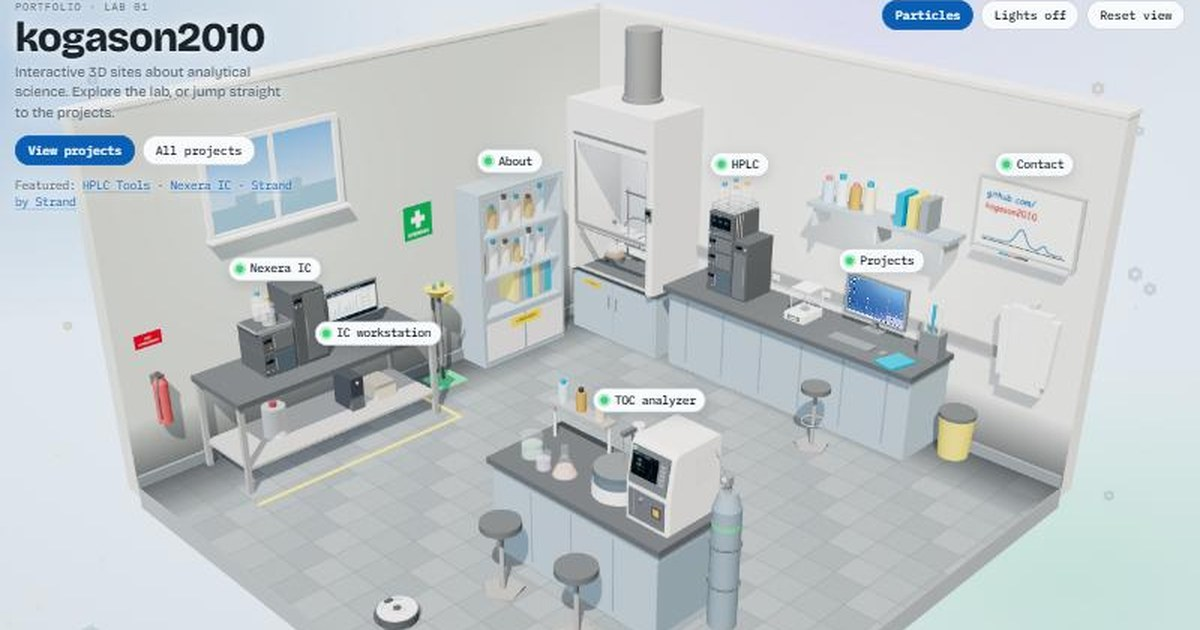
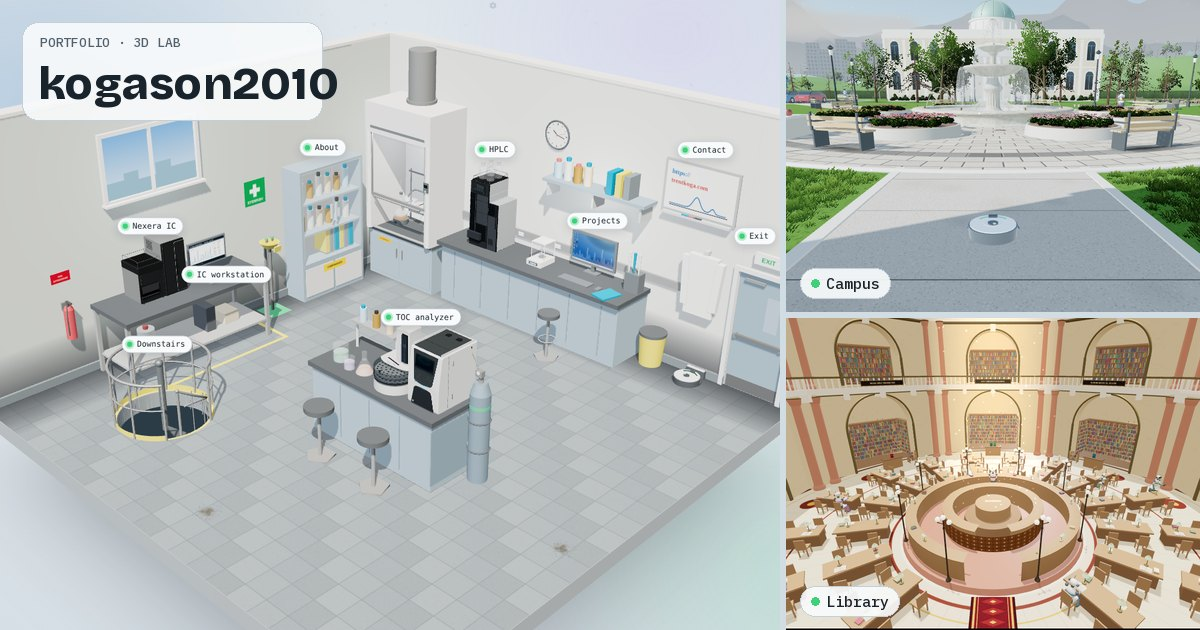
Clear the view, fit phones, fix small bugs, fresh share preview
- The intro panel folds away when you head for another room, so it no longer covers a third of NCA or the math hall
- The math hall opens on a wider view that takes in the exhibits on both sides
- Phones: toolbar buttons show icons so they all fit on screen; crowded tags shrink to their dots instead of stacking into a wall
- Escape with the Places menu open on the campus no longer throws you out of the campus
- A card with a Reload button if the device takes the 3D view away, instead of a blank page
- A page-not-found page
- New share image (lab, campus, library) and share text

Claude-Session: https://claude.ai/code/session_01VFjtFn7Ejbbtki6nFDakVH

diff --git a/index.html b/index.html
@@ -3,14 +3,17 @@
 <head>
 <meta charset="utf-8">
 <meta name="viewport" content="width=device-width, initial-scale=1, viewport-fit=cover">
-<meta name="description" content="Portfolio of kogason2010: a 3D analytical chemistry lab, with KogasonOS running on its monitor.">
+<meta name="description" content="Portfolio of kogason2010: a 3D analytical chemistry lab and its campus, with KogasonOS running on the lab's monitor and app notes in the library.">
 <link rel="icon" href="favicon.svg" type="image/svg+xml">
 <link rel="canonical" href="https://kogason2010.github.io/">
 <meta property="og:type" content="website">
 <meta property="og:title" content="kogason2010 · 3D lab">
-<meta property="og:description" content="A 3D analytical chemistry lab with KogasonOS on its monitor: interactive 3D websites about analytical science.">
+<meta property="og:description" content="Explore a 3D analytical chemistry lab, drive its robot around the campus, and browse app notes in the library. KogasonOS runs on the lab's monitor.">
 <meta property="og:url" content="https://kogason2010.github.io/">
 <meta property="og:image" content="https://kogason2010.github.io/og-lab.jpg">
+<meta property="og:image:width" content="1200">
+<meta property="og:image:height" content="630">
+<meta property="og:image:alt" content="The 3D lab, with views of the campus and the library">
 <meta name="twitter:card" content="summary_large_image">
 <meta name="theme-color" content="#0f181e">
 <style>
@@ -50,12 +53,12 @@
 
 <div class="tools">
   <button class="btn places-btn" id="placesBtn" type="button" aria-haspopup="menu" aria-expanded="false" aria-controls="placesMenu"><svg viewBox="0 0 16 16" aria-hidden="true"><path d="M8 1.5c-2.5 0-4.5 2-4.5 4.4 0 3.3 4.5 8.6 4.5 8.6s4.5-5.3 4.5-8.6C12.5 3.5 10.5 1.5 8 1.5z" fill="none" stroke="currentColor" stroke-width="1.5"/><circle cx="8" cy="6" r="1.7" fill="currentColor"/></svg>Places</button>
-  <a class="btn places-btn" id="projectsBtn" href="https://kogason2010.github.io/projects/" target="_blank" rel="noopener" data-same><svg viewBox="0 0 16 16" aria-hidden="true"><rect x="2" y="2" width="5" height="5" rx="1.2" fill="currentColor"/><rect x="9" y="2" width="5" height="5" rx="1.2" fill="currentColor"/><rect x="2" y="9" width="5" height="5" rx="1.2" fill="currentColor"/><rect x="9" y="9" width="5" height="5" rx="1.2" fill="currentColor"/></svg>Projects</a>
-  <button class="btn primary" id="particleBtn" type="button" aria-pressed="false">Particles</button>
-  <button class="btn" id="levelBtn" type="button" aria-label="Go downstairs to the SFC suite">Go downstairs</button>
-  <button class="btn" id="lightsBtn" type="button" aria-pressed="false">Lights off</button>
+  <a class="btn places-btn compact" id="projectsBtn" href="https://kogason2010.github.io/projects/" target="_blank" rel="noopener" data-same><svg viewBox="0 0 16 16" aria-hidden="true"><rect x="2" y="2" width="5" height="5" rx="1.2" fill="currentColor"/><rect x="9" y="2" width="5" height="5" rx="1.2" fill="currentColor"/><rect x="2" y="9" width="5" height="5" rx="1.2" fill="currentColor"/><rect x="9" y="9" width="5" height="5" rx="1.2" fill="currentColor"/></svg><span class="lbl">Projects</span></a>
+  <button class="btn primary compact" id="particleBtn" type="button" aria-pressed="false"><svg class="ico" viewBox="0 0 16 16" aria-hidden="true"><circle cx="4" cy="4.5" r="1.6" fill="currentColor"/><circle cx="11.5" cy="3.5" r="1.2" fill="currentColor"/><circle cx="8" cy="8.5" r="1.9" fill="currentColor"/><circle cx="3.5" cy="12" r="1.1" fill="currentColor"/><circle cx="12.5" cy="11.5" r="1.5" fill="currentColor"/></svg><span class="lbl">Particles</span></button>
+  <button class="btn compact" id="levelBtn" type="button" aria-label="Go downstairs to the SFC suite"><svg class="ico" viewBox="0 0 16 16" aria-hidden="true"><path d="M1.5 14.5h4v-3.5h4V7.5h5" fill="none" stroke="currentColor" stroke-width="1.6" stroke-linejoin="round"/><path d="M3.5 2v6M1.5 6l2 2 2-2" fill="none" stroke="currentColor" stroke-width="1.5" stroke-linecap="round" stroke-linejoin="round"/></svg><span class="lbl">Go downstairs</span></button>
+  <button class="btn compact" id="lightsBtn" type="button" aria-pressed="false"><svg class="ico" viewBox="0 0 16 16" aria-hidden="true"><path d="M8 1.8a4.4 4.4 0 00-2.6 7.9c.5.4.8 1 .8 1.6h3.6c0-.6.3-1.2.8-1.6A4.4 4.4 0 008 1.8z" fill="none" stroke="currentColor" stroke-width="1.5" stroke-linejoin="round"/><path d="M6.2 13.2h3.6M6.8 15h2.4" stroke="currentColor" stroke-width="1.5" stroke-linecap="round"/></svg><span class="lbl">Lights off</span></button>
   <button class="btn sound-btn" id="soundBtn" type="button" aria-pressed="false" aria-label="Turn sound on" title="Sound"><svg viewBox="0 0 16 16" aria-hidden="true"><path d="M2.5 6h2.2L8 3.2v9.6L4.7 10H2.5z" fill="currentColor"/><path class="wave" d="M10.5 5.5a3.2 3.2 0 010 5M12.3 3.8a5.6 5.6 0 010 8.4" fill="none" stroke="currentColor" stroke-width="1.4" stroke-linecap="round"/><path class="mute" d="M10.5 6l4 4M14.5 6l-4 4" fill="none" stroke="currentColor" stroke-width="1.4" stroke-linecap="round"/></svg></button>
-  <button class="btn" id="resetBtn" type="button">Reset view</button>
+  <button class="btn compact" id="resetBtn" type="button"><svg class="ico" viewBox="0 0 16 16" aria-hidden="true"><path d="M3 8a5 5 0 109-3" fill="none" stroke="currentColor" stroke-width="1.6" stroke-linecap="round"/><path d="M12.6 1.8V5.4H9" fill="none" stroke="currentColor" stroke-width="1.6" stroke-linecap="round" stroke-linejoin="round"/></svg><span class="lbl">Reset view</span></button>
 </div>
 
 <div class="places-menu" id="placesMenu" role="menu" aria-label="Places" hidden></div>

diff --git a/404.html b/404.html
@@ -1,0 +1,67 @@
+<!doctype html>
+<html lang="en">
+<head>
+<meta charset="utf-8">
+<meta name="viewport" content="width=device-width, initial-scale=1">
+<meta name="robots" content="noindex">
+<title>Page not found · kogason2010</title>
+<link rel="icon" href="/favicon.svg" type="image/svg+xml">
+<link rel="preconnect" href="https://fonts.googleapis.com">
+<link rel="stylesheet" href="https://fonts.googleapis.com/css2?family=Bricolage+Grotesque:opsz,wght@12..96,400;12..96,800&family=IBM+Plex+Mono:wght@400;500&display=swap">
+<!-- Shown by GitHub Pages for any address on this site that doesn't exist. Same colours as the lab (css/style.css). -->
+<style>
+  :root {
+    --bg: #e9eef2; --bg-2: #d2dce3; --ink: #18232b; --ink-soft: #51616c; --sheet: #f8fafb; --line: #c4d0d8;
+    --accent: #0a5fb4; --accent-ink: #ffffff; --glow: #3fd17a;
+    --display: "Bricolage Grotesque", "Segoe UI", system-ui, sans-serif;
+    --mono: "IBM Plex Mono", ui-monospace, "SFMono-Regular", Menlo, monospace;
+  }
+  @media (prefers-color-scheme: dark) {
+    :root:not([data-theme="light"]) { --bg: #0f181e; --bg-2: #18242c; --ink: #e3ecf1; --ink-soft: #97a9b4; --sheet: #152028; --line: #283943; --accent: #6aa6f0; --accent-ink: #091a30; --glow: #5fe39a; color-scheme: dark; }
+  }
+  :root[data-theme="dark"] { --bg: #0f181e; --bg-2: #18242c; --ink: #e3ecf1; --ink-soft: #97a9b4; --sheet: #152028; --line: #283943; --accent: #6aa6f0; --accent-ink: #091a30; --glow: #5fe39a; color-scheme: dark; }
+  * { box-sizing: border-box; }
+  html, body { min-height: 100%; }
+  body { margin: 0; display: grid; place-items: center; min-height: 100vh; padding: 32px 16px;
+    background: radial-gradient(120% 90% at 50% 40%, var(--bg) 0%, var(--bg-2) 100%); background-color: var(--bg);
+    color: var(--ink); font: 16px/1.5 var(--display); }
+  main { width: min(520px, 100%); background: var(--sheet); border: 1px solid var(--line); border-radius: 18px; padding: 24px 24px 26px; box-shadow: 0 18px 50px rgba(0,0,0,.10); }
+  .eyebrow { font: 500 11px/1 var(--mono); letter-spacing: .12em; text-transform: uppercase; color: var(--ink-soft); }
+  h1 { margin: 10px 0 6px; font-weight: 800; font-size: clamp(30px, 7vw, 42px); line-height: 1; letter-spacing: -.02em; }
+  p { margin: 0; color: var(--ink-soft); }
+  svg { display: block; width: 100%; height: auto; margin: 18px 0 16px; }
+  .axis { stroke: var(--line); }
+  .trace { stroke: var(--accent); }
+  .mark { stroke: var(--ink-soft); }
+  .tick { fill: var(--ink-soft); font: 400 10px var(--mono); }
+  .where { fill: var(--ink-soft); font: 500 11px var(--mono); }
+  @media (max-width: 480px) { .tick { font-size: 16px; } .where { font-size: 17px; } }   /* the chart shrinks to fit: keep its words readable */
+  nav { display: flex; flex-wrap: wrap; gap: 8px; margin-top: 20px; }
+  a.btn { font: 500 13px/1 var(--mono); letter-spacing: .03em; text-decoration: none; color: var(--ink); background: var(--sheet);
+    border: 1px solid var(--line); border-radius: 999px; padding: 10px 14px; }
+  a.btn:hover { border-color: var(--accent); }
+  a.btn.primary { background: var(--accent); color: var(--accent-ink); border-color: var(--accent); }
+  a.btn:focus-visible { outline: 2px solid var(--accent); outline-offset: 2px; }
+</style>
+</head>
+<body>
+<main>
+  <span class="eyebrow">Error 404 · kogason2010</span>
+  <h1>No peak here</h1>
+  <p>This page didn't come off the column. The address may be mistyped, or the page has moved.</p>
+  <svg viewBox="0 0 460 120" role="img" aria-label="A chromatogram with a flat baseline: nothing was detected">
+    <path class="axis" d="M20 96H448M20 96V12" fill="none" stroke-width="1.5"/>
+    <path class="trace" d="M20 92c40 0 70 1 110 0s80-1 120 0 70 1 110 0 60-1 88 0" fill="none" stroke-width="2.2" stroke-linecap="round"/>
+    <path class="mark" d="M264 24v66" stroke-dasharray="3 4" stroke-width="1.2"/>
+    <text class="where" x="270" y="32">expected here</text>
+    <text class="tick" x="20" y="112">0</text><text class="tick" x="128" y="112">2</text><text class="tick" x="236" y="112">4</text><text class="tick" x="344" y="112">6</text><text class="tick" x="420" y="112">min</text>
+  </svg>
+  <p>Try one of these instead:</p>
+  <nav>
+    <a class="btn primary" href="/">Back to the lab</a>
+    <a class="btn" href="/projects/">Browse all projects</a>
+    <a class="btn" href="/os/">Open KogasonOS</a>
+  </nav>
+</main>
+</body>
+</html>

diff --git a/css/style.css b/css/style.css
@@ -233,6 +233,11 @@ body.world-mode .hint { bottom: calc(16px + env(safe-area-inset-bottom, 0px)); }
 .hot[hidden] { display: none; }
 .hot { transition: border-color .15s, opacity .2s; }
 .hot.tucked { opacity: 0; pointer-events: none; }
+/* a tag crowded out by a nearer one shrinks to its dot (js/main.js); hovering or focusing it shows the name again */
+.hot.dot { gap: 0; padding: 5px; }
+.hot.dot .lbl { position: absolute; width: 1px; height: 1px; overflow: hidden; clip-path: inset(50%); white-space: nowrap; }
+.hot.dot:hover, .hot.dot:focus-visible, .hot.dot.on { gap: 7px; padding: 6px 10px 6px 7px; z-index: 1; }
+.hot.dot:hover .lbl, .hot.dot:focus-visible .lbl, .hot.dot.on .lbl { position: static; width: auto; height: auto; clip-path: none; }
 
 .sheet {
   position: fixed; z-index: 3;
@@ -410,6 +415,15 @@ body.world-mode .hint { bottom: calc(16px + env(safe-area-inset-bottom, 0px)); }
   .tools { left: max(12px, env(safe-area-inset-left, 0px)); right: max(12px, env(safe-area-inset-right, 0px)); max-width: none; justify-content: flex-start; flex-wrap: nowrap; overflow-x: auto; scrollbar-width: none; }
   .tools::-webkit-scrollbar { display: none; }
   .tools .btn { flex: none; padding: 8px 11px; }
+  /* phones: the toolbar's buttons show just their icons so they all fit across the screen (their names stay for screen
+     readers, and Particles says "Back to lab" in words while it's on) */
+  .tools { gap: 6px; }
+  .tools .btn .ico { display: block; width: 14px; height: 14px; flex: none; }
+  .tools .compact { display: inline-flex; align-items: center; justify-content: center; gap: 6px; box-sizing: border-box; min-width: 36px; padding: 8px 10px; }
+  .tools .compact .lbl { position: absolute; width: 1px; height: 1px; overflow: hidden; clip-path: inset(50%); white-space: nowrap; }
+  .tools #particleBtn[aria-pressed="true"] .lbl { position: static; width: auto; height: auto; clip-path: none; }
+  .tools #particleBtn[aria-pressed="true"] ~ #levelBtn, .tools #particleBtn[aria-pressed="true"] ~ #lightsBtn { display: none; }   /* (no use to a cloud of points, and the words need their room) */
+  .tools #levelBtn.going-up .ico { transform: rotate(180deg); }
   .tag { top: calc(60px + env(safe-area-inset-top, 0px)); }
 }
 body.sheet-open .tag { opacity: 0; pointer-events: none; transform: translateY(-8px); }
@@ -511,6 +525,7 @@ body.sheet-open .tag { opacity: 0; pointer-events: none; transform: translateY(-
 
 /* the Places menu: every room in one list */
 .tools .places-btn { display: inline-flex; align-items: center; gap: 6px; text-decoration: none; }
+.tools .ico { display: none; }   /* toolbar icons are for phones (below); wider screens have room for the words */
 .places-btn svg { width: 14px; height: 14px; }
 .places-menu { position: fixed; z-index: 6; top: calc(58px + env(safe-area-inset-top, 0px)); right: max(16px, env(safe-area-inset-right, 0px)); width: min(300px, calc(100vw - 32px));
   display: grid; gap: 2px; padding: 6px; border-radius: 14px; border: 1px solid var(--line); background: color-mix(in srgb, var(--sheet) 94%, transparent);
@@ -559,3 +574,11 @@ kbd { display: inline-block; min-width: 1.4em; padding: 1px 6px; border-radius: 
 .places-menu .pm-quality span { flex: 1; font: 500 11px/1 var(--mono); letter-spacing: .1em; text-transform: uppercase; color: var(--ink-soft); }
 .places-menu .pm-quality button { display: inline-block; padding: 6px 12px; border: 1px solid var(--line); border-radius: 999px; font: 500 12px/1 var(--mono); color: var(--ink); }
 .places-menu .pm-quality button[aria-pressed="true"] { background: var(--accent); border-color: var(--accent); color: var(--accent-ink); }
+
+/* the 3D view was taken away by the device (js/core/scene.js) */
+.gl-lost { position: fixed; left: 50%; top: 50%; transform: translate(-50%, -50%); z-index: 40; width: min(360px, calc(100% - 32px)); box-sizing: border-box;
+  display: grid; gap: 8px; justify-items: start; padding: 18px 20px; border-radius: 16px; background: var(--sheet); color: var(--ink); border: 1px solid var(--line); box-shadow: 0 18px 50px rgba(0,0,0,.18); }
+.gl-lost b { font: 800 22px/1.1 var(--display); letter-spacing: -.01em; }
+.gl-lost p { margin: 0; color: var(--ink-soft); }
+.gl-lost .btn { margin-top: 4px; }
+body.gl-off #labels, body.gl-off .hint { visibility: hidden; }

diff --git a/js/main.js b/js/main.js
@@ -76,6 +76,8 @@ resize(); fitDistance();
 
 /* ---------- Loop ---------- */
 const v = new THREE.Vector3();
+// tags that never shrink to a dot when the room is crowded: the workstations the hints tell you to tap, and the projects monitor
+const TAG_FIRST = new Set(["desktop", "icpc", "sfcpc", "lcpc"]);
 const clock = new THREE.Clock();
 let rotorAngle = 0, rotorTarget = 0, rotorTimer = 0;
 function frame() {
@@ -160,17 +162,36 @@ function frame() {
       // keep the whole tag on screen (narrow phones clipped the ones near the edges)
       if (!hs._w && !labelsEl.hidden) { const ow = hs.el.offsetWidth; if (ow) { hs._w = ow / 2; hs._h = hs.el.offsetHeight || 26; } }   // measured once, the first time it shows
       const hw = hs._w || 0;
-      placed.push({ hs, hw, hh: hs._h || 26, lx: Math.min(w - hw - 6, Math.max(hw + 6, (v.x * 0.5 + 0.5) * w)), ly: (-v.y * 0.5 + 0.5) * h });
+      const ax = (v.x * 0.5 + 0.5) * w;
+      placed.push({ hs, hw, hh: hs._h || 26, ax, lx: Math.min(w - hw - 6, Math.max(hw + 6, ax)), ly: (-v.y * 0.5 + 0.5) * h });
     });
-    // tags that would land on top of each other are nudged apart vertically, top to bottom
-    placed.sort((a, b) => a.ly - b.ly);
-    placed.forEach((p, i) => {
-      for (let pass = 0; pass < 4; pass++) {
-        const hit = placed.slice(0, i).find(q => Math.abs(q.lx - p.lx) < q.hw + p.hw + 4 && Math.abs(q.ly - p.ly) < (q.hh + p.hh) / 2 + 3);
-        if (!hit) break; p.ly = hit.ly + (hit.hh + p.hh) / 2 + 4;
+    // tags that would land on top of each other slide down out of the way, top to bottom; one that would have to slide
+    // far from its thing (a crowded bench) shrinks to its glowing dot right where the thing is instead. The name shows
+    // again on hover or focus, or once you zoom in and there's room (a dot needs a little more room to grow back, so tags
+    // don't flicker as the camera moves)
+    placed.sort((a, b) => (TAG_FIRST.has(b.hs.key) - TAG_FIRST.has(a.hs.key)) || a.ly - b.ly);   // the ones the hints point to always keep their names
+    const kept = [], clash = p => kept.find(q => Math.abs(q.lx - p.lx) < q.hw + p.hw + 4 && Math.abs(q.ly - p.ly) < (q.hh + p.hh) / 2 + 3);
+    placed.forEach(p => {
+      const y0 = p.ly, room = p.hs._dot ? 18 : 34;
+      let hit;
+      for (let pass = 0; pass < 3 && (hit = clash(p)); pass++) p.ly = hit.ly + (hit.hh + p.hh) / 2 + 4;
+      const dot = !!hit || p.ly - y0 > room;
+      if (dot !== !!p.hs._dot) { p.hs._dot = dot; p.hs.el.classList.toggle("dot", dot); }
+      let under = false;
+      if (dot) {
+        p.ly = y0; p.hw = 10; p.hh = 20; p.lx = Math.min(w - 16, Math.max(16, p.ax));
+        // a dot that lands on a name steps to the nearest free spot just beside it; with no room anywhere, it waits out of sight
+        const q = clash(p);
+        if (q) {
+          const x0 = p.lx, spots = [[x0, q.ly - q.hh / 2 - 12], [x0, q.ly + q.hh / 2 + 12], [q.lx - q.hw - 16, q.ly], [q.lx + q.hw + 16, q.ly]]
+            .filter(s => s[0] > 12 && s[0] < w - 12).sort((a, b) => Math.hypot(a[0] - x0, a[1] - y0) - Math.hypot(b[0] - x0, b[1] - y0));
+          const free = spots.find(s => { p.lx = s[0]; p.ly = s[1]; return !clash(p); });
+          if (!free) { p.lx = x0; p.ly = y0; under = true; }
+        }
       }
+      if (!under) kept.push(p);
       p.hs.el.style.transform = `translate(${p.lx}px, ${p.ly}px) translate(-50%, -50%)`;
-      p.hs.el.classList.toggle("tucked", cover.some(r => p.lx > r.left - 50 && p.lx < r.right + 50 && p.ly > r.top - 14 && p.ly < r.bottom + 14));
+      p.hs.el.classList.toggle("tucked", under || cover.some(r => p.lx > r.left - 50 && p.lx < r.right + 50 && p.ly > r.top - 14 && p.ly < r.bottom + 14));
     });
   }
   requestAnimationFrame(frame);

diff --git a/js/ui/intro.js b/js/ui/intro.js
@@ -1,6 +1,6 @@
 /* js/ui/intro.js — The introduction panel in the top-left corner folds down to just the name a few seconds after the
    page opens (or as soon as you start looking around), so it stays out of the way. On a first visit it stays open
-   until you start looking around. The arrow, or a click on the folded
+   until you start looking around or head for another room. The arrow, or a click on the folded
    panel, opens it again; it folds itself away again a few seconds after the pointer leaves it.
    Part of the kogason2010 lab. Scripts load in order from index.html and share one scope. */
 "use strict";
@@ -30,6 +30,8 @@ tagEl.addEventListener("pointerenter", () => { introHover = true; });
 tagEl.addEventListener("pointerleave", () => { introHover = false; if (!tagEl.classList.contains("collapsed")) foldIntroSoon(INTRO_FOLD_MS); });
 // starting to look around folds it straight away
 cv.addEventListener("pointerdown", () => { if (!tagEl.classList.contains("collapsed") && !introHover) setIntroOpen(false); });
+// so does heading somewhere else: open, it would cover a third of the next room
+function foldIntro() { if (!tagEl.classList.contains("collapsed")) setIntroOpen(false); }
 // a first-time visitor keeps the introduction open until they start looking around; after that it folds by itself
 let introSeen = false;
 try { introSeen = !!localStorage.getItem("labSeen"); localStorage.setItem("labSeen", "1"); } catch (e) { /* no storage: treat as seen */ introSeen = true; }

diff --git a/js/ui/labels.js b/js/ui/labels.js
@@ -7,7 +7,8 @@ const labelsEl = document.getElementById("labels"), tagEl = document.querySelect
 // one floating tag per clickable group; rooms built later (the Chemistry lab) add theirs with addHotButton
 function addHotButton(h) {
   const b = document.createElement("button");
-  b.type = "button"; b.className = "hot"; b.textContent = h.label;
+  b.type = "button"; b.className = "hot";
+  const t = document.createElement("span"); t.className = "lbl"; t.textContent = h.label; b.appendChild(t);   // (a crowded tag hides its name: see main.js)
   b.addEventListener("click", () => openSection(h.key));
   b.addEventListener("pointerenter", () => setHover(h.key));
   b.addEventListener("pointerleave", () => setHover(null));
@@ -103,5 +104,6 @@ sheetBody.addEventListener("click", e => { if (e.target.closest("[data-particles
 document.getElementById("closeBtn").addEventListener("click", () => closeSheet());
 document.addEventListener("keydown", e => {
   if (e.key !== "Escape") return;
+  if (!document.getElementById("placesMenu").hidden) return;   // the Places menu closes itself (js/ui/places-menu.js); nothing else should go with it
   if (worldOn) exitWorld(); else if (readerOpen) closeReader(); else if (lcAppOpen) closeLcApp(); else if (sfcAppOpen) closeSfcApp(); else if (wsOpen) closeWorkstation(); else if (deskOpen) closeDesktop(); else if (pMode) setParticleMode(false); else closeSheet();
 });

diff --git a/js/core/levels.js b/js/core/levels.js
@@ -10,6 +10,7 @@ const HINT_UP = hint.textContent, HINT_DOWN = "Drag to look around · scroll or 
 scene.add(sun.target);
 function goLevel(to) {
   if (lvl || to === level || deskOpen || pMode) return;
+  if (to === "down") foldIntro();
   sheet.classList.add("closed"); sheet.setAttribute("aria-hidden", "true"); document.body.classList.remove("sheet-open");
   if (to === "up") sfcAbort();
   const base = focusHome || { pos: camera.position.clone(), tgt: controls.target.clone() };
@@ -36,7 +37,7 @@ function updateLevel(dt) {
   controls.enabled = true; controls.minDistance = 8;
   labelsEl.hidden = false; hint.hidden = false; hint.textContent = level === "up" ? HINT_UP : HINT_DOWN;
   levelBtn.disabled = false; particleBtn.disabled = level === "down";
-  levelBtn.textContent = level === "up" ? "Go downstairs" : "Go upstairs";
+  levelBtn.querySelector(".lbl").textContent = level === "up" ? "Go downstairs" : "Go upstairs"; levelBtn.classList.toggle("going-up", level === "down");
   document.getElementById("eyebrow").textContent = level === "up" ? "Portfolio · lab 01" : "Portfolio · basement · SFC suite";
   levelBtn.setAttribute("aria-label", level === "up" ? "Go downstairs to the SFC suite" : "Go back upstairs to the lab");
   if (osFrame && level === "up") { osFrame.style.visibility = ""; placeOsFrame(); }

diff --git a/js/core/scene.js b/js/core/scene.js
@@ -31,6 +31,15 @@ renderer.outputEncoding = THREE.sRGBEncoding;
 renderer.toneMapping = THREE.ACESFilmicToneMapping;
 renderer.toneMappingExposure = 0.95;
 stage.appendChild(renderer.domElement);
+// a phone that wants its graphics memory back (or a graphics driver that resets) can take the 3D view away. Say so and
+// offer a reload, rather than leave a blank page; if the browser hands the view back by itself, carry on.
+const glLost = document.createElement("div");
+glLost.className = "gl-lost"; glLost.hidden = true; glLost.setAttribute("role", "alert");
+glLost.innerHTML = '<b>The 3D view stopped</b><p>Your device needed its graphics memory for something else. Reload the page to bring the lab back.</p><button class="btn primary" type="button">Reload</button>';
+glLost.querySelector("button").addEventListener("click", () => location.reload());
+document.body.appendChild(glLost);
+renderer.domElement.addEventListener("webglcontextlost", e => { e.preventDefault(); glLost.hidden = false; document.body.classList.add("gl-off"); });
+renderer.domElement.addEventListener("webglcontextrestored", () => { glLost.hidden = true; document.body.classList.remove("gl-off"); });
 
 const scene = new THREE.Scene();
 const lab = new THREE.Group(); scene.add(lab);

diff --git a/js/math/visit.js b/js/math/visit.js
@@ -3,7 +3,10 @@
    Part of the kogason2010 lab. Scripts load in order from index.html and share one scope. */
 "use strict";
 
-const MATH_VIEW = { pos: new THREE.Vector3(5.5, 6.6, 11.0), tgt: new THREE.Vector3(0, 2.8, -2.5), minD: 3, maxD: 17 };
+// from high in the corner by the door, so the opening view takes in the blackboard, the lattice and the exhibits on both sides
+const MATH_VIEW = { pos: new THREE.Vector3(7, 8.3, 11.2), tgt: new THREE.Vector3(-0.5, 1.8, -3.5), minD: 3, maxD: 17, fov: 64 };
+// a little wider than the library's lens on a wide screen: the exhibits stand at both ends of the hall
+const mathFov = () => Math.max(MATH_VIEW.fov, libFov());
 let mathSaved = null;
 function buildMath() {
   if (mathBuilt) return;
@@ -24,7 +27,7 @@ function mathClampCamera() {
 }
 function mathHomeView() {
   const a = libAspect(), pos = a < 0.8 ? new THREE.Vector3(3, 8.2, 11.2) : MATH_VIEW.pos;
-  camera.fov = libFov(); camera.updateProjectionMatrix();
+  camera.fov = mathFov(); camera.updateProjectionMatrix();
   camera.position.copy(pos); controls.target.copy(MATH_VIEW.tgt); camera.lookAt(MATH_VIEW.tgt); controls.minDistance = MATH_VIEW.minD;
   mathClampCamera();
 }

diff --git a/js/campus/drive.js b/js/campus/drive.js
@@ -223,7 +223,7 @@ function shadowRes(n) { if (LIGHT) n = Math.min(n, 1024); if (sun.shadow.mapSize
 function fade(on, ms, cb, color) { if (on || color) { const bg = color || (night ? "#0b1433" : "#f4fbff"); fadeEl.style.background = bg; fadeEl.classList.toggle("dark", bg !== "#f4fbff"); } if (!on) setTimeout(() => { loaderEl.hidden = true; }, (reduce ? 0 : ms) + 40); fadeEl.style.transitionDuration = (reduce ? 0 : ms) + "ms"; fadeEl.classList.toggle("on", on); setTimeout(cb, reduce ? 0 : ms + 30); }
 function enterWorld() {
   if (worldOn || worldBusy || lvl || deskOpen || pMode || level !== "up") return;
-  worldBusy = true; treeTextures();
+  worldBusy = true; treeTextures(); foldIntro();
   labView = focusHome ? { pos: focusHome.pos.clone(), tgt: focusHome.tgt.clone() } : { pos: camera.position.clone(), tgt: controls.target.clone() };
   focusHome = null; tween = null; closeSheet(true); setHover(null); botHover = false;
   labelsEl.hidden = true; hint.hidden = true; controls.enabled = false; doorGoal = 1;

diff --git a/js/math/room.js b/js/math/room.js
@@ -305,6 +305,6 @@ function updateMath(dt, time) {
   mathFluxUpdate(MFX.t);
   MFX.hopf.rotation.y += dt * 0.18; MFX.hopf.rotation.z = Math.sin(MFX.t * 0.3) * 0.25;
   hemi.intensity = night ? 0.22 : 0.5; sun.intensity = night ? 0.15 : 0.55; fill.intensity = night ? 0.03 : 0.12;
-  const f = libFov(); if (Math.abs(camera.fov - f) > 0.1) { camera.fov = f; camera.updateProjectionMatrix(); }
+  const f = mathFov(); if (Math.abs(camera.fov - f) > 0.1) { camera.fov = f; camera.updateProjectionMatrix(); }
   mathClampCamera();
 }

diff --git a/js/core/lights.js b/js/core/lights.js
@@ -24,7 +24,7 @@ function setNight(on) {
   hoodLight.intensity = on ? 1.6 : 0.55; mantleMat.emissiveIntensity = on ? 1.5 : 0.6;
   benchLight.intensity = on ? 1.2 : 0.6;
   screenGlow.intensity = on ? 0.9 : 0;
-  lightsBtn.textContent = on ? "Lights on" : "Lights off";
+  lightsBtn.querySelector(".lbl").textContent = on ? "Lights on" : "Lights off";
   lightsBtn.setAttribute("aria-pressed", String(on));
 }
 lightsBtn.addEventListener("click", () => setNight(!night));
